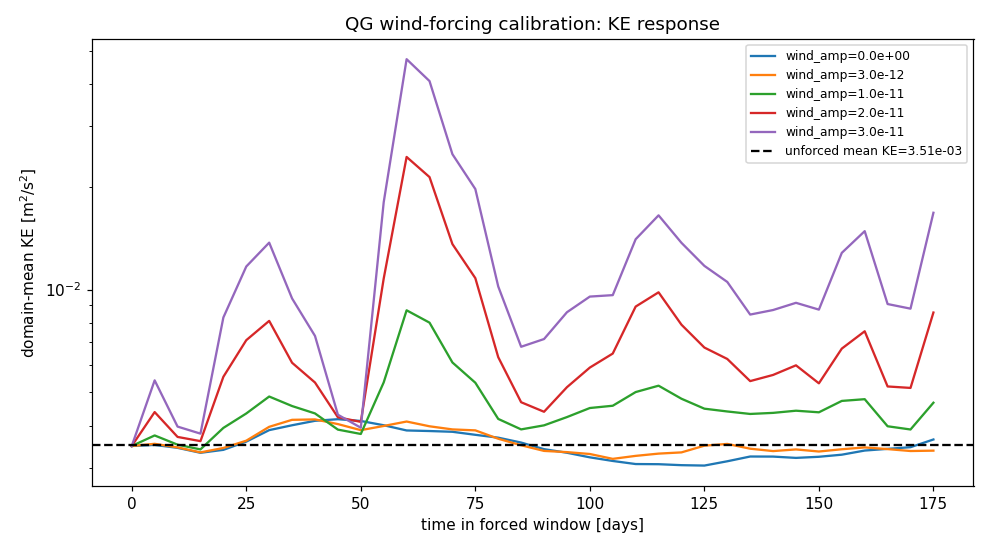
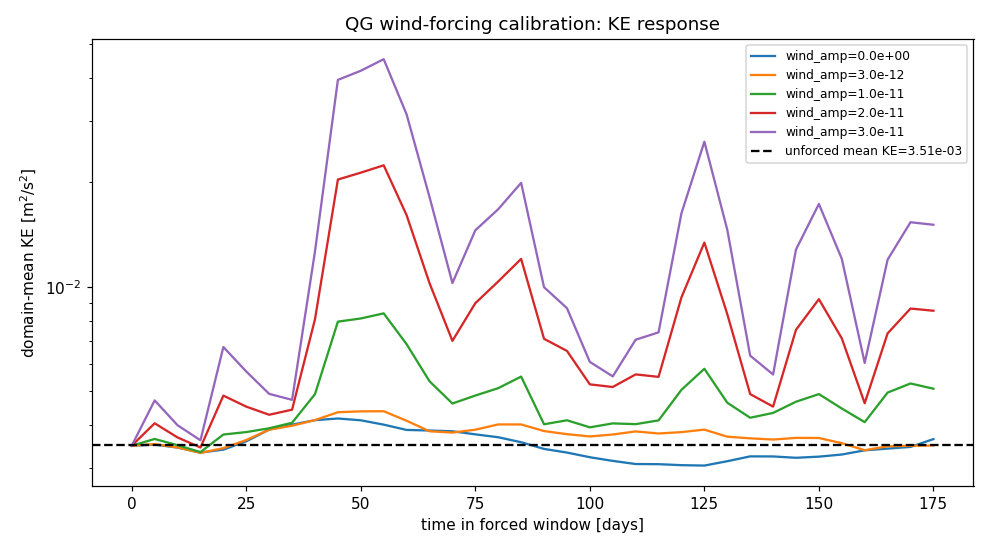
reports: recalibrate QG wind amplitude under moving-storm drift (1e-11 -> +37% KE, unchanged)

diff --git a/PLAN.md b/PLAN.md
@@ -48,7 +48,7 @@ Parallel-session isolation via worktrees (`../4dvarnet-fm-qg`); shared clone sta
 
 Adds an atmosphere-like **wind-stress curl** as an upper-layer PV source (Ekman pumping, Vallis §9.2), shaped as a **localized Gaussian storm on a moving storm track**:
 - `models/qg_dynamics.py`: `dq1/dt += curl_τ` where `curl_τ(x,y,t) = A(t)·(1 − r²/2σ²)·exp(−r²/2σ²)` is a Witch-of-Agnesi profile centered at a moving storm center `(xc, yc)`. Amplitude `A(t)` is an Ornstein–Uhlenbeck process (`wind_amp` = OU σ, `wind_tau_days`) and the center follows a storm track `xc(t) = (L/2 + wind_cx·t + wx(t)) mod L`, `yc(t) = (W/2 + wind_cy·t + wy(t)) mod W`, with OU position jitter `wx, wy` (`wind_drift_tau_days`, `wind_drift_sigma`). Mean drift `(wind_cx, wind_cy) = (0.5, 0.03) m/s` gives a ~23-day zonal crossing with a slow NE track; `wind_sigma = 250 km` storm width. `generate_wind_state(num_steps)` returns a `(T,3)` array `[A, xc, yc]`; `wind_curl_field(wind_state)` builds the per-step field; `generate_full_trajectory`/`generate_batch_trajectories` return `(traj, wind_state)`. `wind_amp=0` reproduces the unforced trajectory **bitwise** (regression test); spinup stays unforced; held constant within each RK4 step.
-- **Calibration** `reports/calibrate_qg_wind.py`: nx=64 sweep over `wind_amp ∈ {0, 3e-12, 1e-11, 2e-11, 3e-11}` → picks the amplitude matching the +32% KE target vs unforced (3.51e-3); 2e-11 → +110%, 3e-11 → +250%.
+- **Calibration** `reports/calibrate_qg_wind.py`: nx=64 sweep over `wind_amp ∈ {0, 3e-12, 1e-11, 2e-11, 3e-11}` under the moving-storm defaults → `wind_amp=1e-11` gives KE +37% vs unforced (3.51e-3), nearest the +32% comparable-contribution target; 2e-11 → +136%, 3e-11 → +290%.
 - **Data** `data/qg.py`: `QGConfig` wind params (`wind_amp`, `wind_tau_days`, `wind_sigma`, `wind_cx`, `wind_cy`, `wind_drift_tau_days`, `wind_drift_sigma`, `wind_seed`); `QGDataset` stores per-window `wind_curl` `(T,ny,nx) = wind_curl_field(wind_state_slice)` and `forcing_true/corrupted` = the per-step wind amplitude column `wind_state[:,0]`.
 - **Animation** `reports/animate_qg_wind.py` → `reports/outputs/figs/qg_wind_animation.gif` (now shows the moving storm).
 - **PR workflow** active: `feat/qg-*` ruleset (1 review + pytest, `do_not_enforce_on_create` on), reviewer/analyst → `cortecs/glm-5.2`.

diff --git a/CHANGELOG.md b/CHANGELOG.md
@@ -1,5 +1,17 @@
 # Changelog
 
+## 2026-08-21: QG — recalibrate wind amplitude under moving-storm drift
+
+**Summary:** Re-ran `reports/calibrate_qg_wind.py` (nx=64, 180-d forced window, `wind_amp ∈ {0,3e-12,1e-11,2e-11,3e-11}`) under the new moving-storm defaults (`wind_cx=0.5`, `wind_cy=0.03`, `wind_sigma=250 km`). Results: unforced KE 3.51e-3; +7% (3e-12), **+37% (1e-11)**, +136% (2e-11), +290% (3e-11). The existing `QGConfig.wind_amp = 1e-11` default still best matches the +32% comparable-contribution target, so the default is unchanged; only the regenerated calibration artifacts (`qg_wind_calibration.json`, `qg_wind_ke.png`) and docs are updated.
+
+**Files modified:**
+- `reports/outputs/figs/qg_wind_ke.png`, `reports/outputs/figs/qg_wind_calibration.json` — regenerated under moving-storm physics.
+- `CHANGELOG.md` — this entry.
+
+**Rationale:** A moving, localized storm deposits KE differently than a fixed `sin·sin` pattern of the same amplitude; the calibration was re-run to verify the design target still holds (it does: 1e-11 → +37% ≈ +32% target). No default change required.
+
+**Verification:** Calibration run on GPU (Quadro RTX 8000, nx=64, spinup 8760 steps) — all 5 amplitudes finite/stable; KE response monotonic in amplitude; baseline KE 3.51e-3 reproduced. `test_wind_amplitude_std_matches_config` still green.
+
 ## 2026-08-21: QG — moving-storm wind forcing (localized Gaussian on NE storm track)
 
 **Summary:** Replaced the static `sin·sin` wind-pattern forcing with a **localized Gaussian storm** whose center follows a moving storm track (`wind_cx=0.5`, `wind_cy=0.03` m/s), finishing the partially-migrated storm refactor: `QGDynamics` now exposes `generate_wind_state` → `(T,3)` `[A, xc, yc]` and `wind_curl_field`, the data layer builds time/space-varying `wind_curl` from the wind state, and the animation/snapshot reports draw the actual moving storm. `wind_amp=0` still reproduces the unforced trajectory bitwise.
